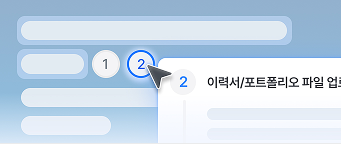
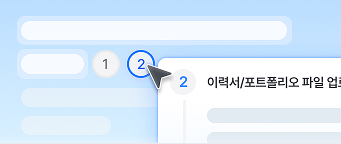
refactor(frontend): HowToUse 카드를 실제 이미지 기반으로 교체
SVG 일러스트 → 실제 가이드 이미지, 카드 데이터 및 레이아웃 Figma 디자인 반영

diff --git a/frontend/src/features/home/components/HowToUse.tsx b/frontend/src/features/home/components/HowToUse.tsx
@@ -1,71 +1,64 @@
+import Image from 'next/image';
+
 import ArrowRight from '/public/icons/icon/arrow_right.svg';
 import Explore from '/public/icons/icon/explore.svg';
-import HowToUse1 from '/public/icons/icon/how_to_use_1.svg';
-import HowToUse2 from '/public/icons/icon/how_to_use_2.svg';
-import HowToUse3 from '/public/icons/icon/how_to_use_3.svg';
-import WebTraffic from '/public/icons/icon/web_traffic.svg';
 
 const cardData = [
   {
-    image: HowToUse1,
-    label: '탐색 시간 3배 이상 단축',
     title: '검색 한 번으로 찾는 업무 정보',
     description: '정보를 찾는 시간,\n이제 일하는 시간으로 사용하세요.',
+    image: '/image/검색한번으로찾는업무정보.png',
   },
   {
-    image: HowToUse2,
-    label: '핵심 정보 누락률 최대 70% 감소',
-    title: '시작부터 끝까지 관리하는 업무 이력',
-    description: '업무 정리부터 매뉴얼 작성, 미팅 기록까지,\n모든 과정이 지식으로 남습니다.',
+    title: '원하는 답을 한 번에 얻는 비결',
+    description: '질문이 구체적일수록 AI가 더 정확하게 대답해요.\n어떻게 질문을 작성하면 좋은지 알려드려요.',
+    image: '/image/원하는답을한번에얻는비결.jpg',
   },
   {
-    image: HowToUse3,
-    label: '자료 정리 시간 최대 90% 감소',
-    title: '툴마다 흩어진 업무, 한 번에 통합',
-    description: '여러 틀에 흩어진 정보들을\n자동으로 수집하고, 한 곳에 보관합니다.',
+    title: '정확도를 올리는 출처 확인 방법',
+    description: '답변 뒤에 붙은 작은 번호를 누르면,\nAI가 참고한 자료의 출처로 바로 이동해요.',
+    image: '/image/정확도를올리는출처확인방법.jpg',
   },
 ];
 
 const HowToUse = () => {
   return (
-    <section className="flex flex-col gap-3">
+    <section className="flex w-full max-w-[1072px] flex-col gap-4">
       <header className="flex items-center gap-3">
-        <div className="border-neutral-3 bg-blue-1 rounded-lg border-[0.5px] p-1.5">
-          <Explore className="h-5 w-5 text-blue-50" />
+        <div className="border-neutral-3 bg-blue-1 flex h-8 w-8 items-center justify-center rounded-lg border-[0.5px]">
+          <Explore className="h-6 w-6 text-blue-50" />
         </div>
         <h2 className="text-heading-large text-gray-80">Catch Up을 활용하는 방법</h2>
       </header>
 
-      <ul className="flex gap-5">
-        {cardData.map((card, idx) => {
-          const CardImg = card.image;
-          return (
-            <li key={idx} className="border-neutral-3 w-89.75 rounded-2xl border">
-              <CardImg className="h-[151.5px] w-89.5 rounded-t-2xl" />
+      <ul className="flex gap-6">
+        {cardData.map((card, idx) => (
+          <li
+            key={idx}
+            className="border-neutral-3 flex flex-1 flex-col overflow-hidden rounded-2xl border bg-white"
+          >
+            <img
+              src={card.image}
+              alt={card.title}
+              className="border-neutral-3 h-[144px] w-full border-b object-cover"
+            />
 
-              <div className="flex h-48 w-88.5 flex-col gap-3 rounded-b-2xl bg-white p-4 text-gray-50">
-                <div className="rounded-md2 bg-neutral-2 flex w-max items-center gap-1 px-1.5 py-0.5">
-                  <WebTraffic className="h-4 w-4 text-gray-50" />
-                  <span className="text-body-xsmall relative top-[0.5px]">{card.label}</span>
-                </div>
-                <div className="flex flex-col gap-1">
-                  <h3 className="text-heading-medium text-gray-80">{card.title}</h3>
-                  <p className="text-body-small whitespace-pre-line text-gray-50">{card.description}</p>
-                </div>
-
-                <button
-                  type="button"
-                  className="border-neutral-3 active:border-neutral-5 active:bg-neutral-3 hover:border-neutral-4 hover:bg-neutral-2 mt-1 mr-px ml-auto flex h-9 w-25.25 cursor-pointer items-center gap-1 rounded-lg border bg-white px-2 py-1.5"
-                >
-                  <span className="text-body-xsmall text-gray-80 relative top-[0.5px] left-px whitespace-nowrap">
-                    더 알아보기
-                  </span>
-                  <ArrowRight className="text-gray-70 relative left-1 flex h-5 w-5" />
-                </button>
+            <div className="flex flex-col gap-3 p-4">
+              <div className="flex flex-col gap-1">
+                <h3 className="text-heading-medium text-gray-80">{card.title}</h3>
+                <p className="text-body-small whitespace-pre-line text-gray-50">{card.description}</p>
               </div>
-            </li>
-          );
-        })}
+
+              <button
+                type="button"
+                className="border-neutral-3 active:border-neutral-5 active:bg-neutral-3 hover:border-neutral-4 hover:bg-neutral-2 ml-auto flex h-[30px] cursor-pointer items-center gap-1 rounded-lg border bg-white px-2 py-1"
+              >
+                <span className="text-body-xsmall text-gray-80 whitespace-nowrap">더 알아보기</span>
+                <ArrowRight className="h-6 w-6 text-gray-70" />
+              </button>
+            </div>
+          </li>
+        ))}
       </ul>
     </section>
   );
